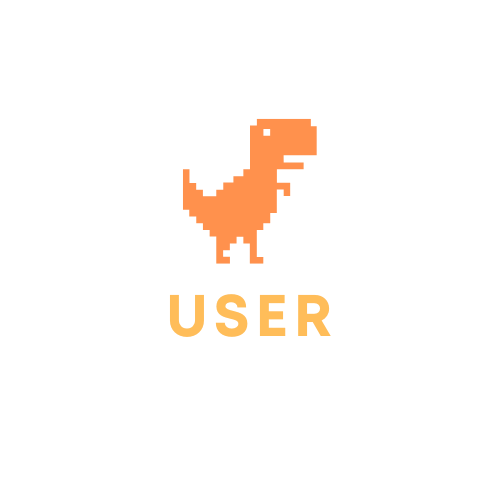
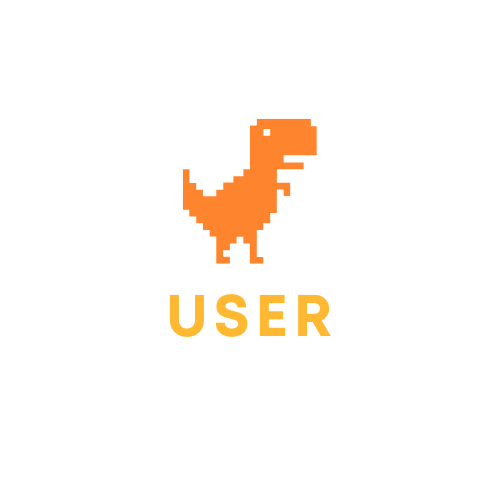
updated the user profile color a little bit

Changed region(s): [[0.36, 0.24, 0.63, 0.54], [0.33, 0.57, 0.66, 0.69]]

diff --git a/style.css b/style.css
@@ -35,8 +35,12 @@ body {
 
 .user-profile img {
     height: 120px;
-    width: auto;
+    width: 120px;
     cursor: pointer;
+    border-radius: 50%;
+    object-fit: cover; 
+    filter: brightness(0.8) saturate(2) hue-rotate(15deg);
+    -webkit-filter: brightness(0.8) saturate(2) hue-rotate(15deg);
 }
 
 .navbutt {
